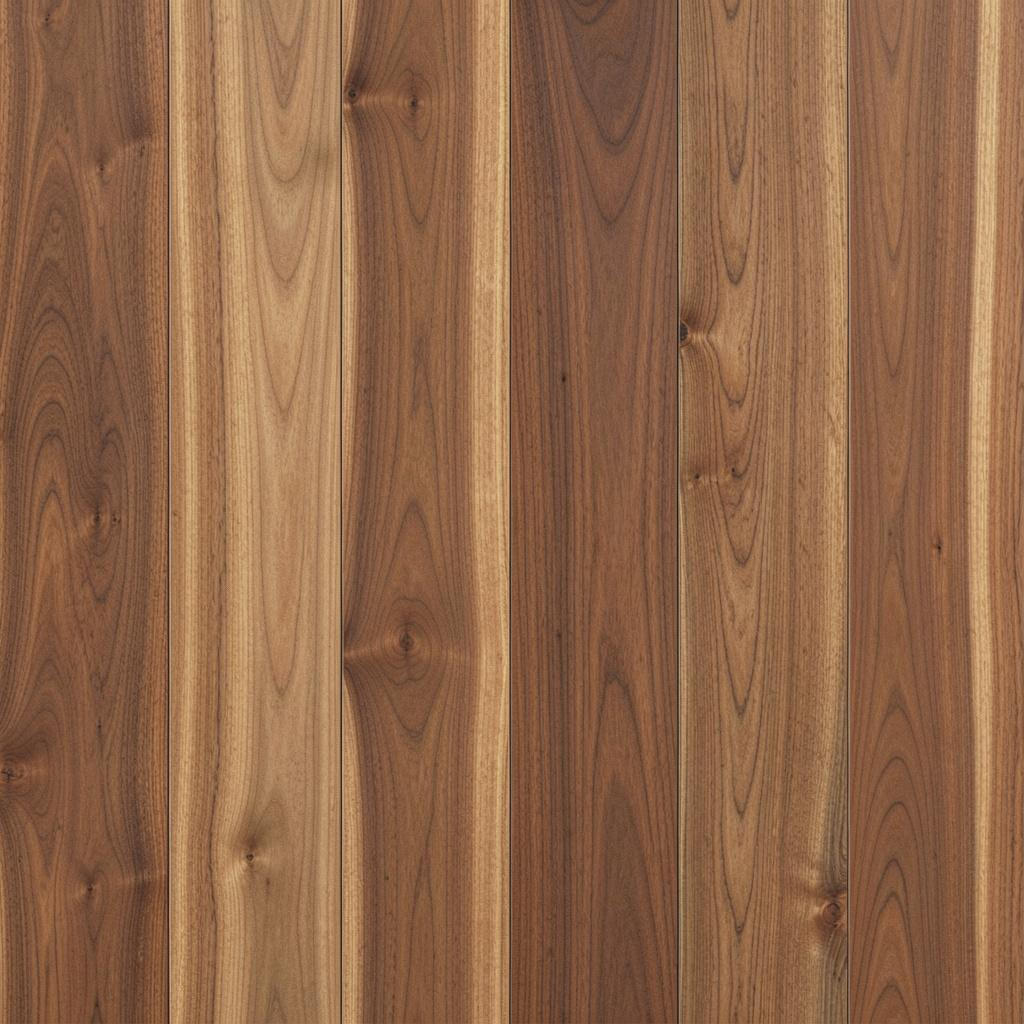
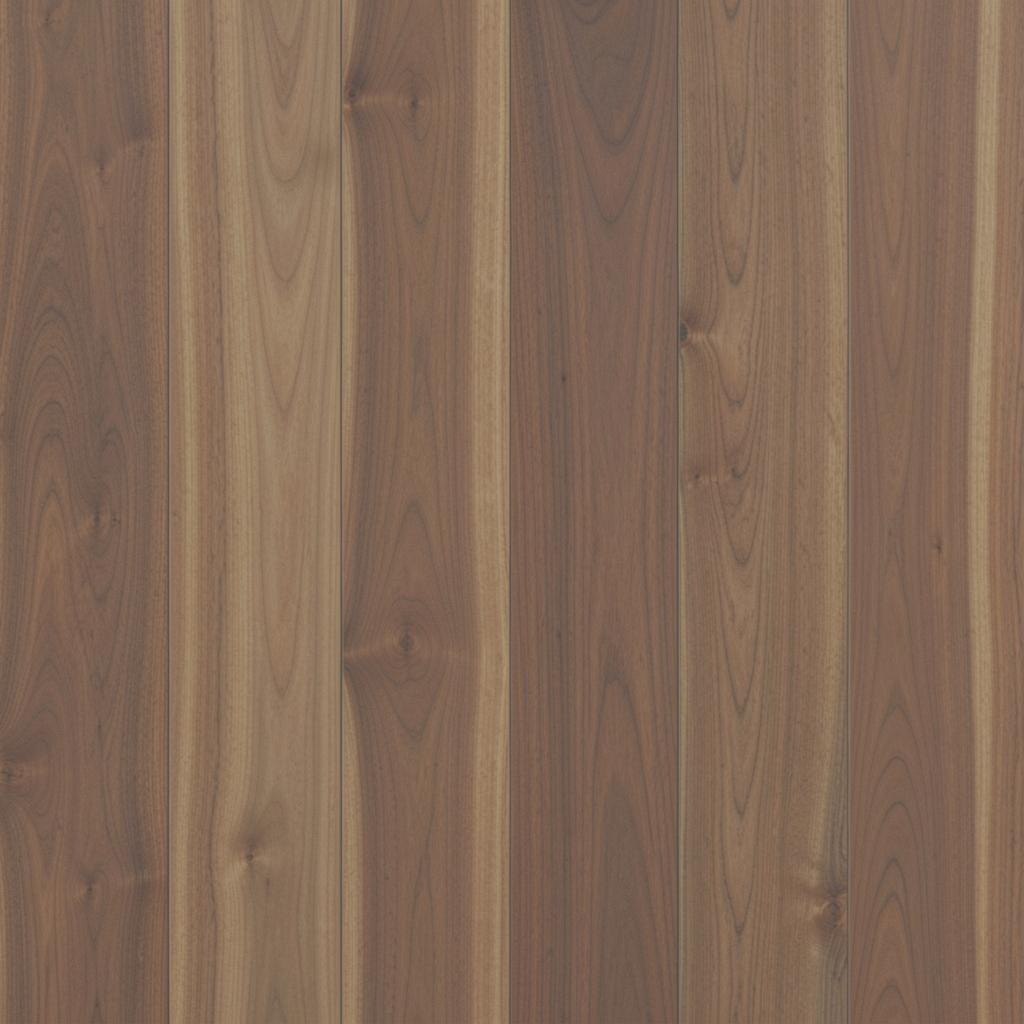
Walk-through floor: calmer walnut (grain contrast halved)
Claude-Session: https://claude.ai/code/session_019FSEsrbYyvi2h7rE3XmBuk

diff --git a/public/samples/ar-project-viewer/walk/walk.js b/public/samples/ar-project-viewer/walk/walk.js
@@ -174,12 +174,12 @@ new GLTFLoader().load(new URL('./kitchen-set.glb', import.meta.url).href, (g) =>
     }
   }
 });
-// Walnut plank floor from alexandria's texture (6 boards per image, about 20 cm each). The house floor UVs are
+// Walnut plank floor from alexandria's texture, contrast softened so the grain stays calm (6 boards per image, about 20 cm each). The house floor UVs are
 // 1 unit per 1.6 m, so the image repeats 1.6 / 1.2 times per unit.
 {
   const t = new THREE.TextureLoader().load(new URL('./floor-walnut.jpg', import.meta.url).href);
   t.colorSpace = THREE.SRGBColorSpace; t.wrapS = t.wrapT = THREE.MirroredRepeatWrapping; t.anisotropy = 8; t.repeat.set(1.6 / 1.2, 1.6 / 1.2); // mirrored, so no seams where the image repeats
-  house.mats.wood.map = t; house.mats.wood.color.set('#9a9a9a'); house.mats.wood.needsUpdate = true;
+  house.mats.wood.map = t; house.mats.wood.color.set('#a8907c'); house.mats.wood.needsUpdate = true;
 }
 // Bath wall tile from alexandria's blue terrazzo-look tile: cropped to exactly 2 x 2 tiles so it repeats cleanly.
 // Wall-tile UVs are 1 unit per 0.6 m, so 2 repeats give 15 cm tiles.
